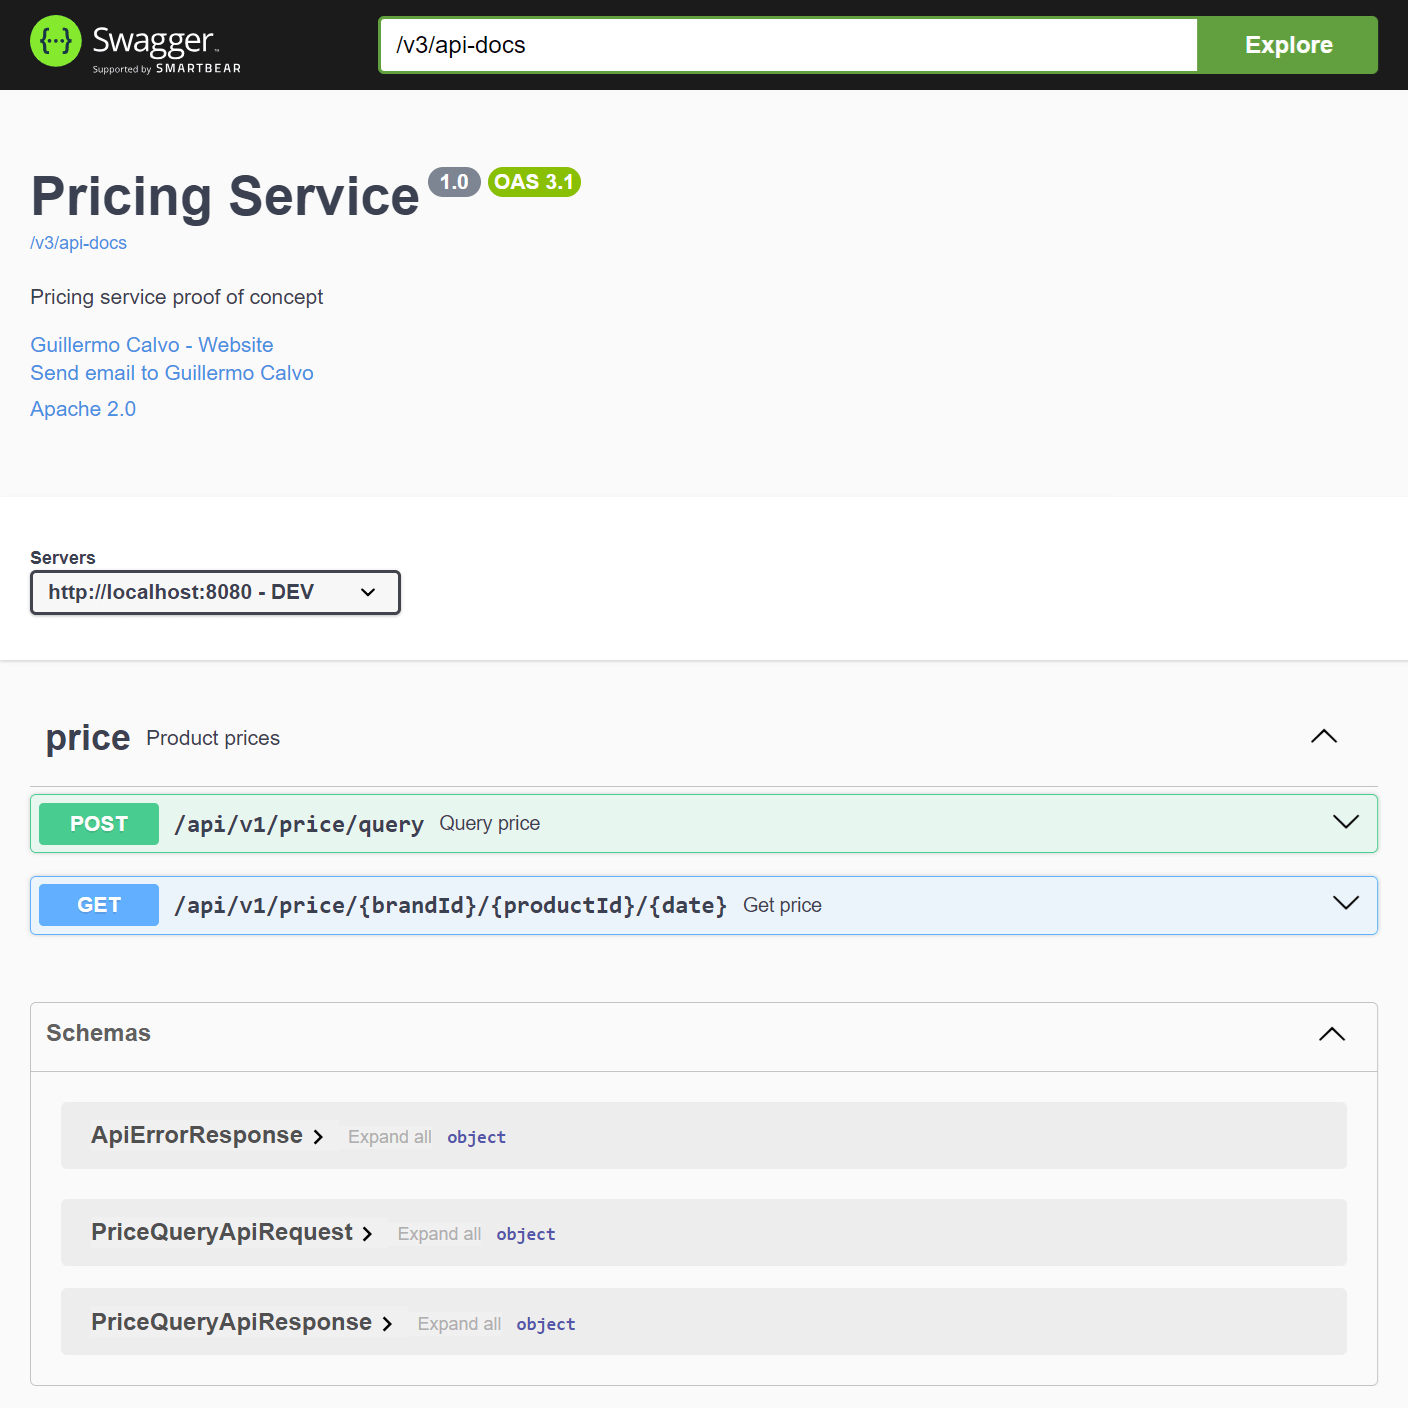
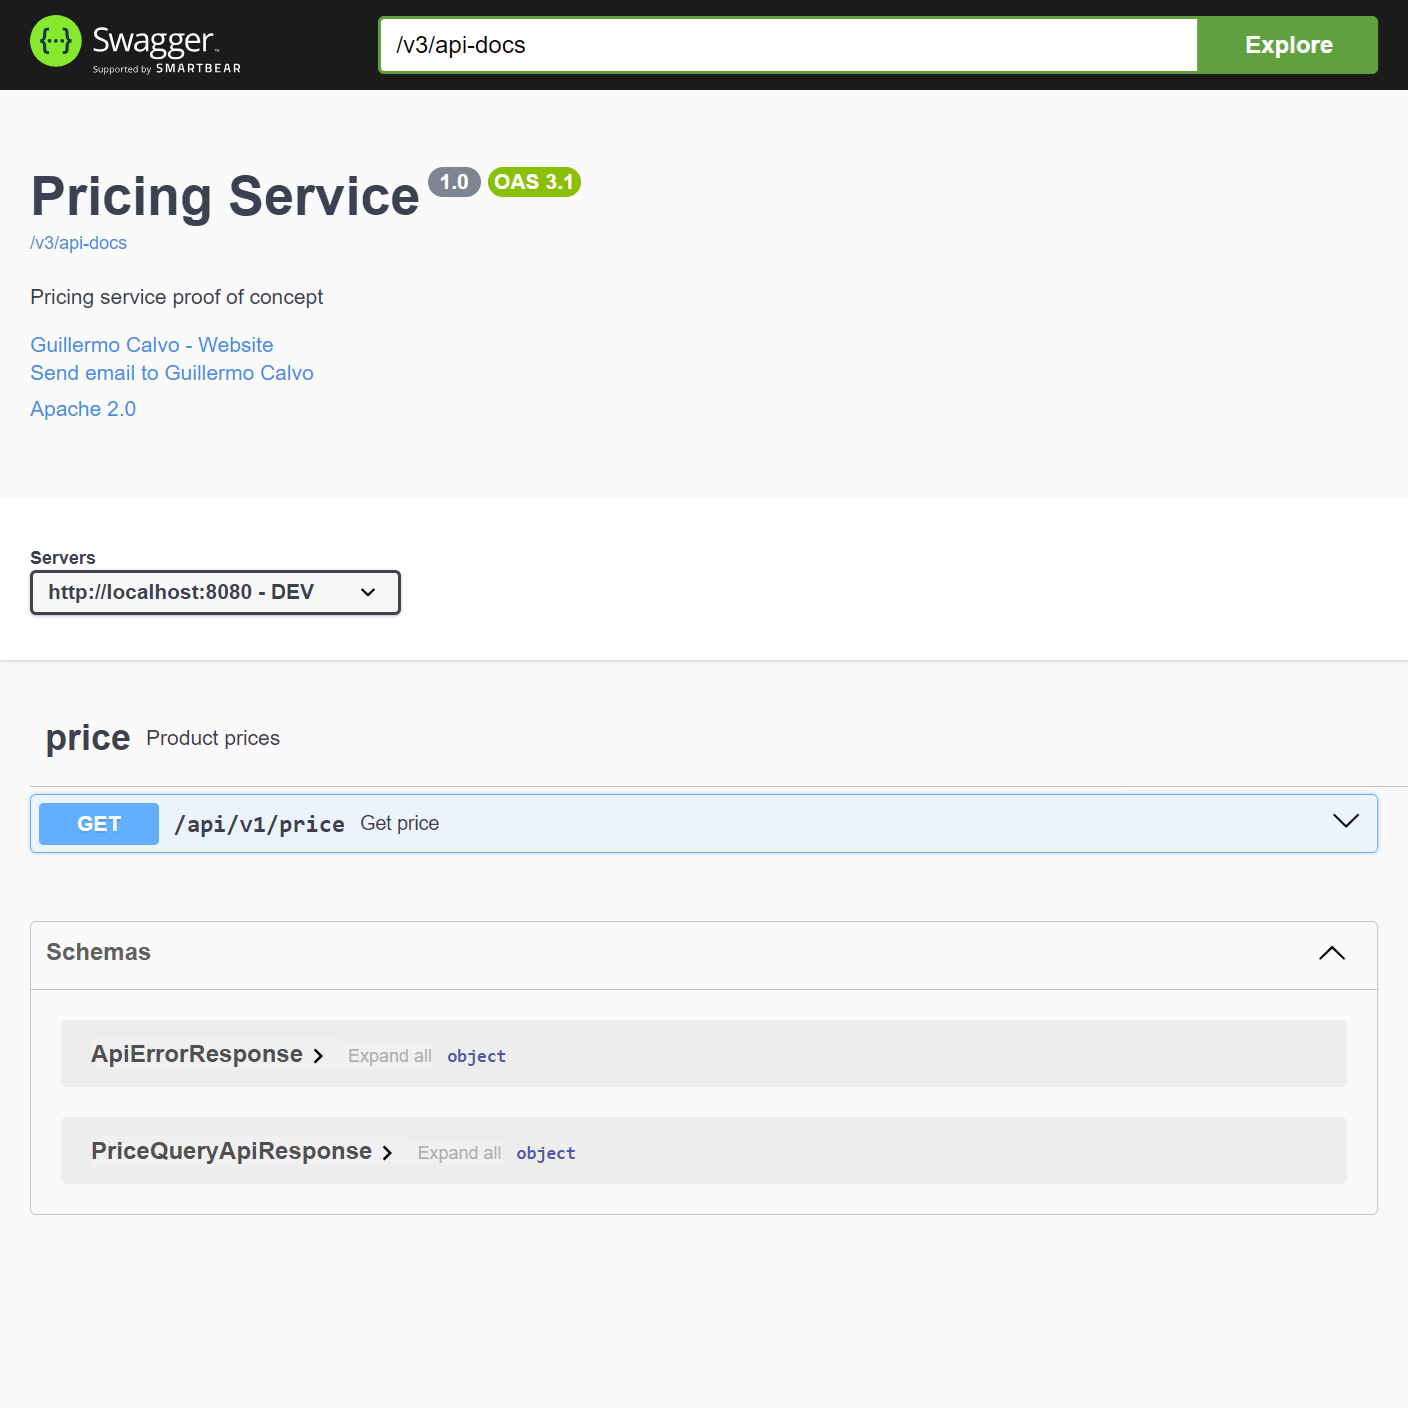
Refactor GET endpoint and drop query endpoint
- Turn path variables into query parameters

diff --git a/pricing-query-rest/src/main/java/com/example/pricing/adapter/query/rest/PricingController.java b/pricing-query-rest/src/main/java/com/example/pricing/adapter/query/rest/PricingController.java
@@ -12,8 +12,6 @@ import com.example.pricing.port.query.dto.PriceQueryRequest;
 import com.example.pricing.service.PricingService;
 import io.swagger.v3.oas.annotations.Operation;
 import io.swagger.v3.oas.annotations.Parameter;
-import io.swagger.v3.oas.annotations.media.Content;
-import io.swagger.v3.oas.annotations.media.Schema;
 import io.swagger.v3.oas.annotations.tags.Tag;
 import jakarta.validation.Valid;
 import jakarta.validation.constraints.NotNull;
@@ -23,9 +21,7 @@ import org.springframework.http.HttpStatus;
 import org.springframework.http.converter.HttpMessageNotReadableException;
 import org.springframework.web.bind.annotation.ExceptionHandler;
 import org.springframework.web.bind.annotation.GetMapping;
-import org.springframework.web.bind.annotation.PathVariable;
-import org.springframework.web.bind.annotation.PostMapping;
-import org.springframework.web.bind.annotation.RequestBody;
+import org.springframework.web.bind.annotation.RequestParam;
 import org.springframework.web.bind.annotation.ResponseStatus;
 import org.springframework.web.bind.annotation.RestController;
 import org.springframework.web.method.annotation.MethodArgumentTypeMismatchException;
@@ -59,40 +55,27 @@ public record PricingController(PricingService pricingService) implements PriceQ
    * @throws PriceNotFoundException If there is no such price for the request.
    */
   @Operation(summary = "Get price", description = "Returns the current retail price for a product")
-  @GetMapping("/api/v1/price/{brandId}/{productId}/{date}")
+  @GetMapping("/api/v1/price")
   public PriceQueryApiResponse getPrice(
-      @PathVariable("brandId") @Parameter(description = "The brand ID", example = "1") long brandId,
-      @PathVariable("productId") @Parameter(description = "The product ID", example = "35455")
+      @RequestParam("brandId") @Parameter(description = "The brand ID", example = "1") long brandId,
+      @RequestParam("productId") @Parameter(description = "The product ID", example = "35455")
           long productId,
-      @PathVariable("date")
+      @RequestParam("date")
           @Parameter(description = "The point in time", example = "2020-07-07T12:30:00Z")
           @NotNull
           Instant date)
       throws PriceNotFoundException {
     final PriceQueryRequest request = new PriceQueryApiRequest(brandId, productId, date);
     log.info("Get price {}", request);
-    return handle(request);
+    return queryPrice(request);
   }
 
   /** {@inheritDoc} */
-  @Operation(
-      summary = "Query price",
-      description = "Returns the current retail price for a product",
-      requestBody =
-          @io.swagger.v3.oas.annotations.parameters.RequestBody(
-              content = @Content(schema = @Schema(implementation = PriceQueryApiRequest.class))))
-  // TODO: Replace HTTP verb `POST` with `QUERY` when available
-  // see: https://httpwg.org/http-extensions/draft-ietf-httpbis-safe-method-w-body.html
-  @PostMapping("/api/v1/price/query")
   @Override
   @NotNull
-  public PriceQueryApiResponse queryPrice(@NotNull @Valid @RequestBody PriceQueryRequest request)
+  public PriceQueryApiResponse queryPrice(@NotNull @Valid PriceQueryRequest request)
       throws PriceNotFoundException {
     log.info("Query price {}", request);
-    return handle(request);
-  }
-
-  PriceQueryApiResponse handle(PriceQueryRequest request) throws PriceNotFoundException {
     return pricingService
         .findCurrentPrice(request.brandId(), request.productId(), request.date())
         .map(PriceQueryResponseMapper.INSTANCE::toDto)

diff --git a/pricing-bootstrap/src/test/java/com/example/pricing/IntegrationTests.java b/pricing-bootstrap/src/test/java/com/example/pricing/IntegrationTests.java
@@ -4,7 +4,6 @@ import static org.assertj.core.api.Assertions.assertThat;
 import static org.springframework.boot.test.context.SpringBootTest.WebEnvironment.RANDOM_PORT;
 
 import com.example.pricing.adapter.query.rest.dto.ApiErrorResponse;
-import com.example.pricing.adapter.query.rest.dto.PriceQueryApiRequest;
 import com.example.pricing.adapter.query.rest.dto.PriceQueryApiResponse;
 import java.math.BigDecimal;
 import java.time.Instant;
@@ -33,7 +32,7 @@ class IntegrationTests {
 
   @Test
   void testGetPrice() {
-    final var url = "/api/v1/price/1/35455/2020-07-07T12:30:00Z";
+    final var url = "/api/v1/price?brandId=1&productId=35455&date=2020-07-07T12:30:00Z";
     assertThat(rest.getForObject(url, PriceQueryApiResponse.class))
         .hasFieldOrPropertyWithValue("price", new BigDecimal("38.9500"))
         .hasFieldOrPropertyWithValue("priceListId", 4L)
@@ -51,29 +50,9 @@ class IntegrationTests {
       long expectedPriceListId,
       Instant expectedStartDate,
       Instant expectedEndDate) {
-    final var url = "/api/v1/price/" + brandId + "/" + productId + "/" + date;
+    final var url =
+        "/api/v1/price?brandId=" + brandId + "&productId=" + productId + "&date=" + date;
     assertThat(rest.getForEntity(url, PriceQueryApiResponse.class))
-        .hasFieldOrPropertyWithValue("statusCode", OK)
-        .extracting(ResponseEntity::getBody)
-        .hasFieldOrPropertyWithValue("price", expectedPrice)
-        .hasFieldOrPropertyWithValue("priceListId", expectedPriceListId)
-        .hasFieldOrPropertyWithValue("startDate", expectedStartDate)
-        .hasFieldOrPropertyWithValue("endDate", expectedEndDate);
-  }
-
-  @ParameterizedTest
-  @CsvFileSource(resources = "/test-batch.csv", numLinesToSkip = 1)
-  void testQueryPrices(
-      long brandId,
-      long productId,
-      Instant date,
-      BigDecimal expectedPrice,
-      long expectedPriceListId,
-      Instant expectedStartDate,
-      Instant expectedEndDate) {
-    final var url = "/api/v1/price/query";
-    final var request = new PriceQueryApiRequest(brandId, productId, date);
-    assertThat(rest.postForEntity(url, request, PriceQueryApiResponse.class))
         .hasFieldOrPropertyWithValue("statusCode", OK)
         .extracting(ResponseEntity::getBody)
         .hasFieldOrPropertyWithValue("price", expectedPrice)
@@ -84,7 +63,7 @@ class IntegrationTests {
 
   @Test
   void testNotFound() {
-    final var url = "/api/v1/price/1/35455/1980-07-07T12:30:00Z";
+    final var url = "/api/v1/price?brandId=1&productId=35455&date=1980-07-07T12:30:00Z";
     assertThat(rest.getForEntity(url, ApiErrorResponse.class))
         .hasFieldOrPropertyWithValue("statusCode", NOT_FOUND)
         .extracting(ResponseEntity::getBody)
@@ -93,7 +72,7 @@ class IntegrationTests {
 
   @Test
   void testIllegalDate() {
-    final var url = "/api/v1/price/1/35455/whoops";
+    final var url = "/api/v1/price?brandId=1&productId=35455&date=whoops";
     assertThat(rest.getForEntity(url, ApiErrorResponse.class))
         .hasFieldOrPropertyWithValue("statusCode", BAD_REQUEST)
         .extracting(ResponseEntity::getBody)

diff --git a/pricing-bootstrap/src/main/java/com/example/pricing/config/PricingConfig.java b/pricing-bootstrap/src/main/java/com/example/pricing/config/PricingConfig.java
@@ -1,13 +1,8 @@
 package com.example.pricing.config;
 
-import com.example.pricing.adapter.query.rest.dto.PriceQueryApiRequest;
 import com.example.pricing.port.persistence.PricePersistencePort;
-import com.example.pricing.port.query.dto.PriceQueryRequest;
 import com.example.pricing.service.PricingService;
 import com.example.pricing.service.PricingServiceImpl;
-import com.fasterxml.jackson.databind.Module;
-import com.fasterxml.jackson.databind.annotation.JsonDeserialize;
-import com.fasterxml.jackson.databind.module.SimpleModule;
 import org.springframework.context.annotation.Bean;
 import org.springframework.context.annotation.Configuration;
 
@@ -29,20 +24,5 @@ public class PricingConfig {
   @Bean
   PricingService pricingService(PricePersistencePort pricePersistence) {
     return new PricingServiceImpl(pricePersistence);
-  }
-
-  /** Jackson mixin to deserialize price query requests. */
-  @JsonDeserialize(as = PriceQueryApiRequest.class)
-  public interface PriceQueryRequestMixin {}
-
-  /**
-   * Instantiates a Jackson module that sets up mixins.
-   *
-   * @return A Jackson module that sets up mixins.
-   */
-  @Bean
-  public Module priceModule() {
-    return new SimpleModule()
-        .setMixInAnnotation(PriceQueryRequest.class, PriceQueryRequestMixin.class);
   }
 }

diff --git a/pricing-query-rest/src/main/java/com/example/pricing/adapter/query/rest/dto/PriceQueryApiRequest.java b/pricing-query-rest/src/main/java/com/example/pricing/adapter/query/rest/dto/PriceQueryApiRequest.java
@@ -3,7 +3,6 @@ package com.example.pricing.adapter.query.rest.dto;
 import static java.util.Objects.requireNonNull;
 
 import com.example.pricing.port.query.dto.PriceQueryRequest;
-import io.swagger.v3.oas.annotations.media.Schema;
 import jakarta.validation.constraints.NotNull;
 import java.time.Instant;
 
@@ -14,12 +13,7 @@ import java.time.Instant;
  * @param productId The product ID.
  * @param date The point in time.
  */
-@Schema(description = "Represents a price query request")
-public record PriceQueryApiRequest(
-    @Schema(description = "The brand ID", example = "1") long brandId,
-    @Schema(description = "The product ID", example = "35455") long productId,
-    @Schema(description = "The point in time", example = "2020-07-07T12:30:00Z") @NotNull
-        Instant date)
+public record PriceQueryApiRequest(long brandId, long productId, @NotNull Instant date)
     implements PriceQueryRequest {
 
   /**
